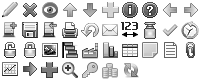
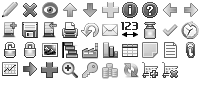
* Agrego clases e iconos

diff --git a/css/custom2.css b/css/custom2.css
@@ -547,7 +547,7 @@ NEW CUSTOM!!!!
 .iconEdit, .iconEmail, .iconFollow, .iconGoTo, .iconGraph, .iconHelp, .iconHistory, .iconIndicator,
 .iconInfo, .iconManufacture, .iconOrder, .iconPassword, .iconPlus, .iconRestore, .iconRestoreFromServer,
 .iconSendMultiple, .iconStoreInServer, .iconStoreLocal, .iconThumbnail, .iconUpload,
-.iconView, .iconViewGantt, .iconWeight {
+.iconView, .iconViewGantt, .iconWeight, .iconAddToCart, .iconRemoveFromCart{
 	font-size: 0px !Important;
 	width: 20px;
 	height: 20px;
@@ -556,12 +556,16 @@ NEW CUSTOM!!!!
 	outline: 0 none;
 	cursor: pointer;
 	vertical-align:top;
+	-khtml-border-radius: 2px;
+	-opera-border-radius: 2px;
+	-moz-border-radius: 2px;
+	-webkit-border-radius: 2px;
 }
 input.iconActivate, input.iconAdd, input.iconBack, input.iconBudget, input.iconDelete, input.iconDetail, input.iconDownload,
 input.iconEdit, input.iconEmail, input.iconFollow, input.iconGoTo, input.iconGraph, input.iconHelp, input.iconHistory, input.iconIndicator,
 input.iconInfo, input.iconManufacture, input.iconOrder, input.iconPassword, input.iconPlus, input.iconRestore, input.iconRestoreFromServer,
 input.iconSendMultiple, input.iconStoreInServer, input.iconStoreLocal, input.iconThumbnail, input.iconUpload,
-input.iconView, input.iconViewGantt, input.iconWeight {
+input.iconView, input.iconViewGantt, input.iconWeight, input.iconAddToCart, input.iconRemoveFromCart {
 	width: 22px;
 	height: 22px;
 }
@@ -569,7 +573,7 @@ input.iconView, input.iconViewGantt, input.iconWeight {
 .iconEdit, .iconEmail, .iconFollow, .iconGoTo, .iconGraph, .iconHelp, .iconHistory, .iconIndicator,
 .iconInfo, .iconManufacture, .iconOrder, .iconPassword, .iconPlus, .iconRestore, .iconRestoreFromServer,
 .iconSendMultiple, .iconStoreInServer, .iconStoreLocal, .iconThumbnail, .iconUpload,
-.iconView, .iconViewGantt, .iconWeight {
+.iconView, .iconViewGantt, .iconWeight, .iconAddToCart, .iconRemoveFromCart{
 	background: url(../images/icons_all.png) no-repeat #e3e3e3;
 	border: solid 1px #ababab;
 }
@@ -664,7 +668,7 @@ input.iconView, input.iconViewGantt, input.iconWeight {
 .iconGraph {
 	background-position: -0px -60px;
 }
-.buttonFollow {
+.iconFollow {
 	background-position: -20px -60px;
 }
 .iconPlus {
@@ -679,11 +683,17 @@ input.iconView, input.iconViewGantt, input.iconWeight {
 .iconPassword {
 	background-position: -80px -60px;
 }
+.iconAddToCart {
+	background-position: -140px -60px;
+}
+.iconRemoveFromCart {
+	background-position: -160px -60px;
+}
 .iconActivate:hover, .iconAdd:hover, .iconBack:hover, .iconBudget:hover, .iconDelete:hover, .iconDetail:hover, .iconDownload:hover,
 .iconEdit:hover, .iconEmail:hover, .iconFollow:hover, .iconGoTo:hover, .iconGraph:hover, .iconHelp:hover, .iconHistory:hover, .iconIndicator:hover,
 .iconInfo:hover, .iconManufacture:hover, .iconOrder:hover, .iconPassword:hover, .iconPlus:hover, .iconRestore:hover, .iconRestoreFromServer:hover,
 .iconSendMultiple:hover, .iconStoreInServer:hover, .iconStoreLocal:hover, .iconThumbnail:hover, .iconUpload:hover,
-.iconView:hover, .iconViewGantt:hover, .iconWeight:hover {
+.iconView:hover, .iconViewGantt:hover, .iconWeight:hover, .iconAddToCart:hover, .iconRemoveFromCart:hover{
 	background-color: #f1f1f1;
 	border: solid 1px #d3d2d2;
 }

diff --git a/css/style.css b/css/style.css
@@ -752,3 +752,74 @@ option{
 	border-width: 0;
 	cursor:pointer;
 }
+
+
+
+
+
+
+
+
+
+
+
+
+
+
+.leightbox {
+	display: none;
+	position: fixed;
+	margin: auto;
+	width: auto;
+	height: auto;
+	padding: 2em;
+	border: 1px solid orange;
+	background-color: white;
+	text-align: left;
+	top: 10%;
+	z-index:11001;
+	max-height: 80%;
+	-khtml-border-radius: 10px;
+	-opera-border-radius: 10px;
+	-moz-border-radius: 10px;
+	-webkit-border-radius: 10px;
+}
+.innerLighbox {
+	overflow: auto;
+	max-height: 500px;
+}
+.close {
+	clear: both;
+	display: block;
+}
+#overlay{
+	display:none;
+	position:absolute;
+	top:0;
+	left:0;
+	width:100%;
+	height:100%;
+	z-index:11000;
+	background-color:#cdcdcd;
+	-moz-opacity: 0.5;
+	opacity:.50;
+	filter: alpha(opacity=50);
+}
+a.lbOn {
+	text-decoration: none !Important;
+}
+.lightbox[id]{
+ /* IE6 and below Can't See This */
+	position:fixed;
+}
+#overlay[id]{ 
+/* IE6 and below Can't See This */
+	position:fixed;    
+}
+input[type="button"], input[type="submit"]{
+	font-family: Arial, Helvetica, sans-serif;
+	font-size: 0.90em;
+	padding-left: 10px;
+	padding-right: 10px;
+	margin: 5px;
+}
